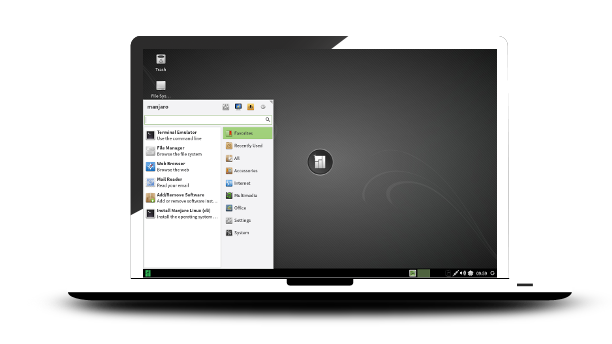
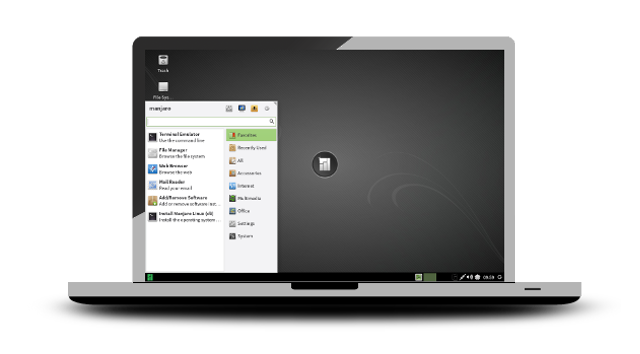
update slides

Changed region(s): [[0.0931, 0.0872, 0.9624, 0.9302], [0.2484, 0.1453, 0.2794, 0.2035], [0.2173, 0.0872, 0.2484, 0.1163]]

diff --git a/src/branding/manjaro/show.qml b/src/branding/manjaro/show.qml
@@ -35,7 +35,7 @@ Presentation
         Image {
             id: background1
             source: "slide.png"
-            width: 420; height: 236
+            width: 600; height: 332
             fillMode: Image.PreserveAspectFit
             anchors.centerIn: parent
         }
@@ -46,7 +46,7 @@ Presentation
                   "Manjaro is driven by a hardworking and dedicated community.<br/>"+
                   "During the installation, this slideshow will provide a quick introduction."
             wrapMode: Text.WordWrap
-            width: 580
+            width: 600
             horizontalAlignment: Text.Center
         }
     }
@@ -55,8 +55,8 @@ Presentation
 
         Image {
             id: background2
-            source: "slide.png"
-            width: 420; height: 236
+            source: "slide2.png"
+            width: 600; height: 332
             fillMode: Image.PreserveAspectFit
             anchors.centerIn: parent
         }
@@ -67,7 +67,7 @@ Presentation
                   "to exactly how you want it. From theming, to the very<br/>"+
                   "kernel itself, it can be changed."
             wrapMode: Text.WordWrap
-            width: 580
+            width: 600
             horizontalAlignment: Text.Center
         }
     }
@@ -76,8 +76,8 @@ Presentation
 
         Image {
             id: background3
-            source: "slide.png"
-            width: 420; height: 236
+            source: "slide3.png"
+            width: 600; height: 332
             fillMode: Image.PreserveAspectFit
             anchors.centerIn: parent
         }
@@ -88,7 +88,7 @@ Presentation
                   "Additionally, there's a multitude of community editions to <br/>"+
                   "choose from, built by the community, for the community."
             wrapMode: Text.WordWrap
-            width: 580
+            width: 600
             horizontalAlignment: Text.Center
         }
     }
@@ -97,8 +97,8 @@ Presentation
 
         Image {
             id: background4
-            source: "slide.png"
-            width: 420; height: 236
+            source: "slide4.png"
+            width: 600; height: 332
             fillMode: Image.PreserveAspectFit
             anchors.centerIn: parent
         }
@@ -106,10 +106,10 @@ Presentation
             anchors.horizontalCenter: background4.horizontalCenter
             anchors.top: background4.bottom
             text: "Manjaro has three different options for managing<br/>"+
-                  "packages.The original command line option, Pacman.<br/>"+
-                  "And two different GUI options, Octopi or Pamac."
+                  "packages. The original command line option, Pacman<br/>"+
+                  "and two different GUI options, Octopi or Pamac."
             wrapMode: Text.WordWrap
-            width: 580
+            width: 600
             horizontalAlignment: Text.Center
         }
     }
@@ -118,8 +118,8 @@ Presentation
 
         Image {
             id: background5
-            source: "slide.png"
-            width: 420; height: 236
+            source: "slide5.png"
+            width: 600; height: 332
             fillMode: Image.PreserveAspectFit
             anchors.centerIn: parent
         }
@@ -128,9 +128,9 @@ Presentation
             anchors.top: background5.bottom
             text: "We appreciate you choosing Manjaro, and hope you enjoy<br/>"+
                   "it as much as we do making it! If you have any questions<br/>"+
-                  "or feedback,please feel free to visit the forum, IRC, or wiki."
+                  "or feedback, please feel free to visit the forum, IRC, or wiki."
             wrapMode: Text.WordWrap
-            width: 580
+            width: 600
             horizontalAlignment: Text.Center
         }
     }
